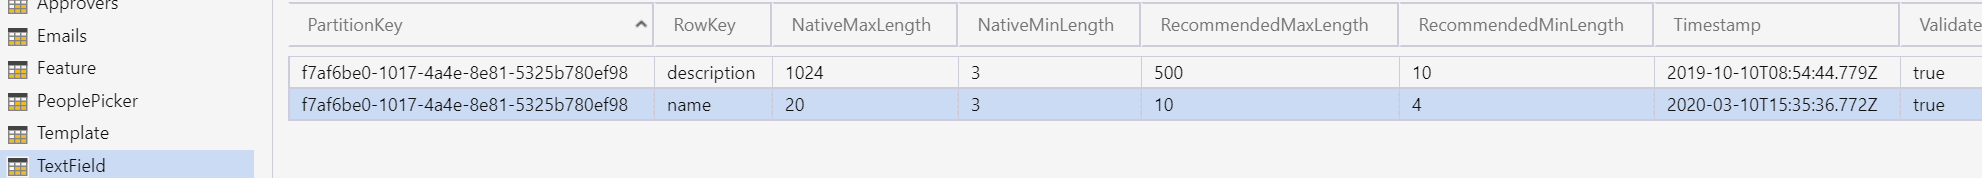
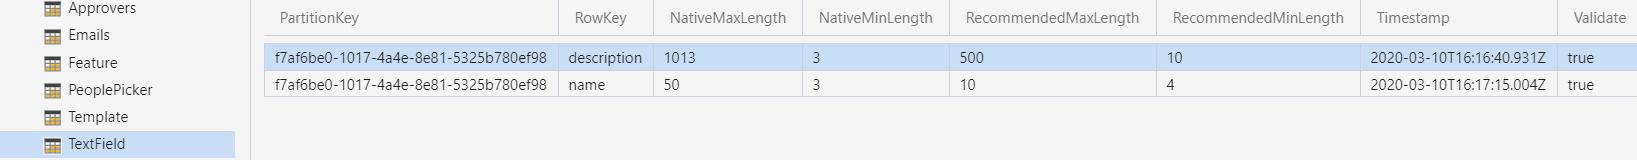
Updated suffix notes

diff --git a/CreateTeam/TableStorageConfiguration.md b/CreateTeam/TableStorageConfiguration.md
@@ -1,6 +1,6 @@
 # Azure Table Storage Configuration
 
-1. Open Azure Storage explorer on your PC (Download from https://azure.microsoft.com/en-us/features/storage-explorer/) add your PROD account and subscription if required  
+1. Open Azure Storage explorer on your PC (Download from https://azure.microsoft.com/en-us/features/storage-explorer/) add your PROD account and subscription if required
 
 2. Open the storage account associated with Create Team
 
@@ -56,15 +56,17 @@ Add a TextField for each of the following RowKeys:
 - RowKey = This is a unique string to identifiy the Text Field.
   - description
   - name
+- NativeMaxLength (Int32) = The maximum length of input. If this number is exceeded, the field will invalidate the form and advise of the maximum length (red)
 - NativeMinLength (Int32) = The minium length of input. If this number is not met, the field will invalidate the form and advise of the minimum length (red)
 - RecommendedMinLength (Int32) = The recommended minimum length of input. If this number is not met, the field will advise of the recommended minimum length (yellow)
 - RecommendedMaxLength (Int32) = The recommended maximum length of input. If this number is exceeded, the field will advise of the recommended maximum length (yellow)
-- NativeMinLength (Int32) = The maximum length of input. If this number is exceeded, the field will invalidate the form and advise of the maximum length (red)
 - Validate (boolean) = This will enabled or disable the above validation rules for the Text Field.
 
 > Please note, NativeMinLength <= RecommendedMinLength <= RecommendedMaxLength <= NativeMaxLength
 
 > It's advisable to stick to the default native min and max lengths, or, ensure the new values are more strict than the defaults. These match native teams validation.
+
+> If you have suffixes defined in the Template table, see below. The NativeMaxLength for the 'name' field must be less than the default length (1013) minus the length of the longest suffix. For example a suffix with the maximum length of 10 would require a 'name' NativeMaxLength of less than 1003 (1013 - 10).
 
 ## Approvers Table
 
@@ -91,14 +93,14 @@ Ignore, this is a reserved system table and not for configuration
 The templates defined in this table will appear as templates in the main menu for the tenant.
 
 - PartitionKey = [TenantId]
-- RowKey = This should be a unique Guid. To generate a Guid visit https://www.guidgenerator.com/, press the “Generate some GUIDs!” button and copy the result into this field. A new Guid needs generating for each row. 
+- RowKey = This should be a unique Guid. To generate a Guid visit https://www.guidgenerator.com/, press the “Generate some GUIDs!” button and copy the result into this field. A new Guid needs generating for each row.
 - Description = This text will appear in the summary box on the create team form when the template is selected
 - Name = The name will appear in the template drop down on the main menu
 - TemplateJson = The settings for the template in json format. It should follow the schema
 
 ```javascript
 {
-"suffix": "UK Sales", //text to display at end of team name
+   "suffix": "UK Sales", //text to display at end of team name. Maximum of 10 characters long
    "IsExternal":true, //wether the team can contain guests or not
    "Visibility":1, //visibility of the team, 0 = public, 1 = private - discoverable, 2 = private - hidden
    "Channels":[ //channels the team is created with
